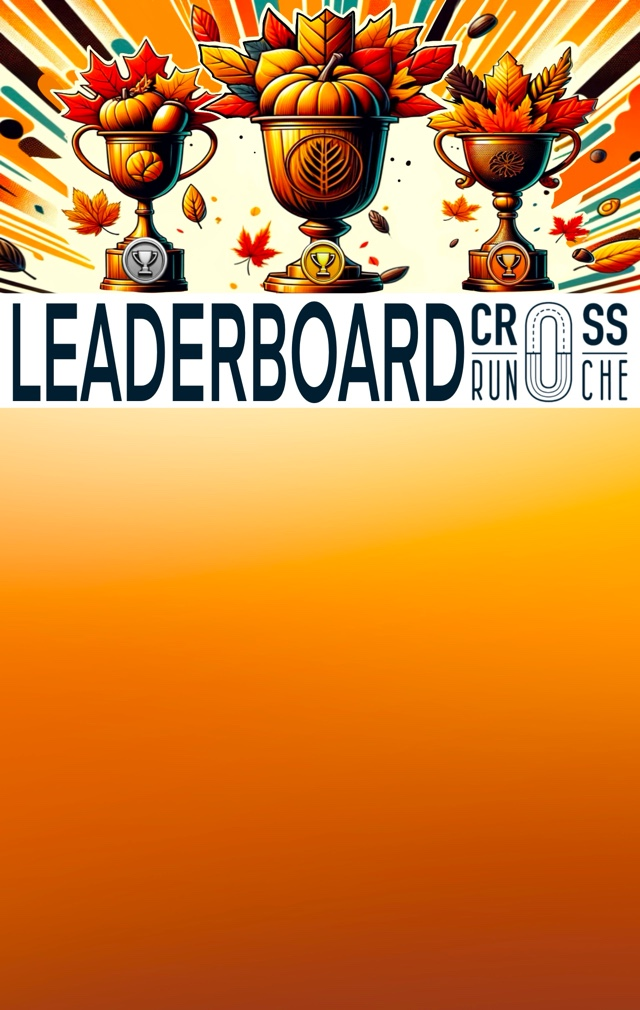
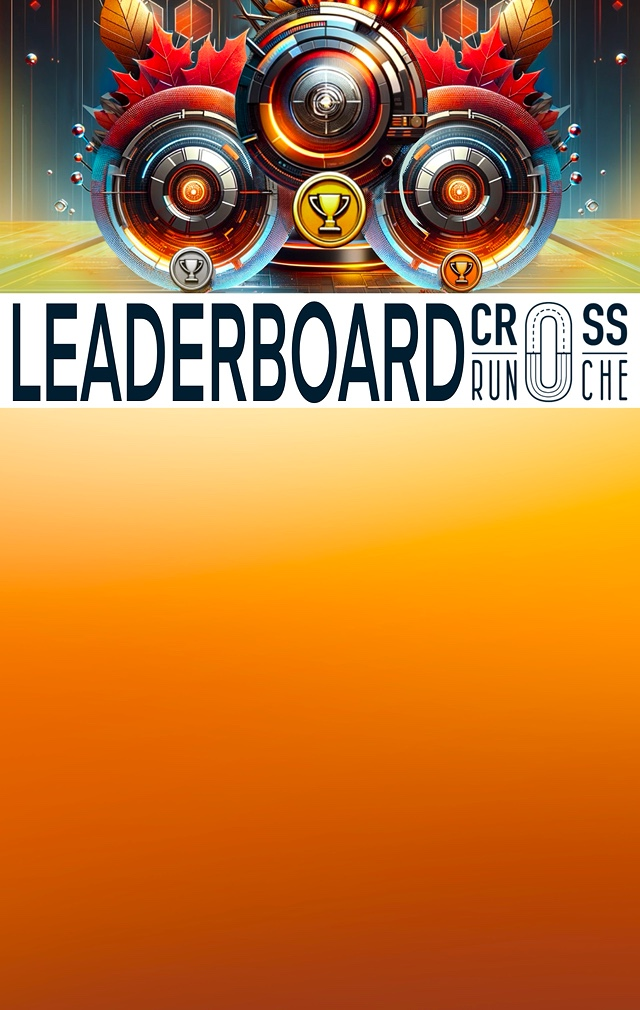
edit background img

Changed region(s): [[0.0, 0.0, 1.0, 0.3376], [0.8125, 0.3376, 0.875, 0.399], [0.875, 0.3376, 0.9062, 0.3683]]

diff --git a/main.py b/main.py
@@ -29,7 +29,7 @@ async def get_season_config(poster_generator, month=None):
         (1, 2, 12): (
             "winter",
             "other_winter",
-            ((258, 22), (34, 35), (486, 34)),
+            ((263, 43), (130, 123), (400, 123)),
         ),
         (3, 4, 5): ("spring", "other", ((253, 105), (80, 112), (425, 112))),
         (6, 7, 8): ("summer", "other", ((265, 40), (130, 123), (400, 123))),
